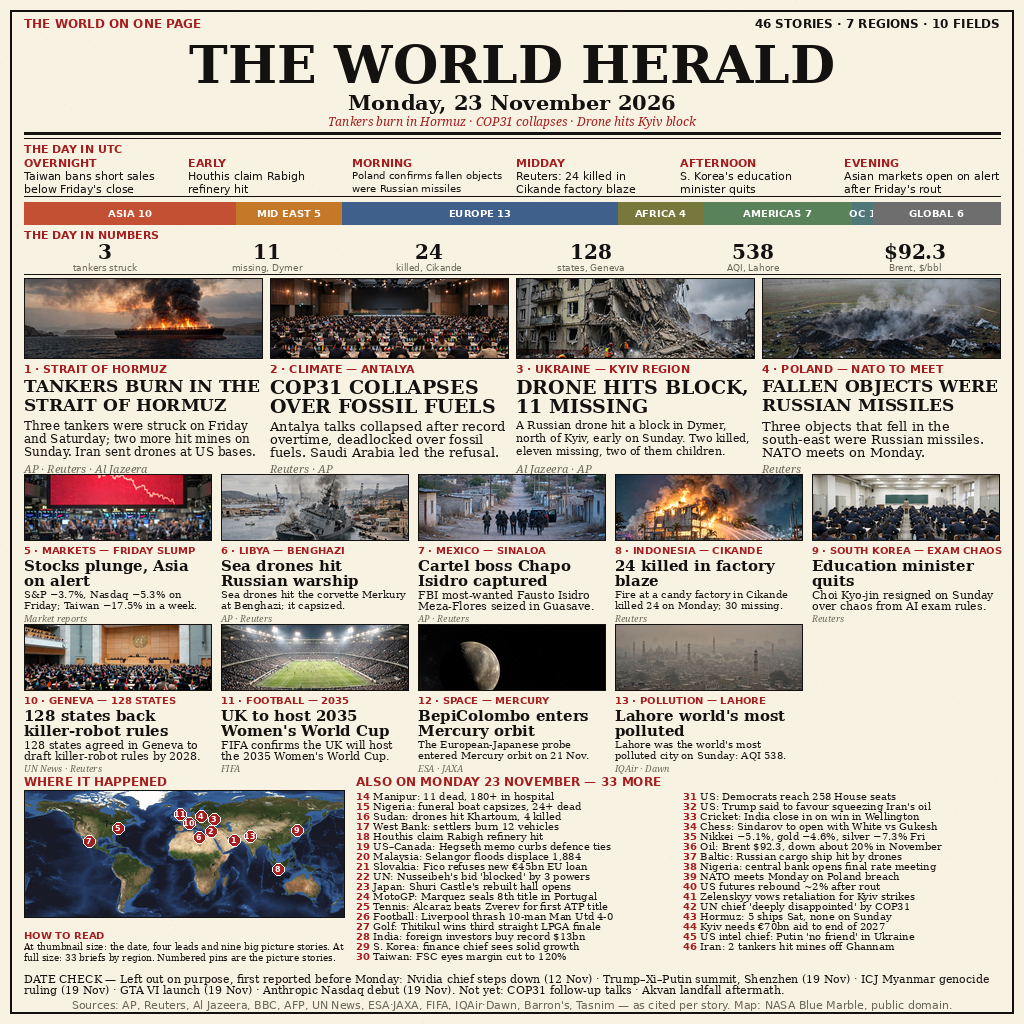
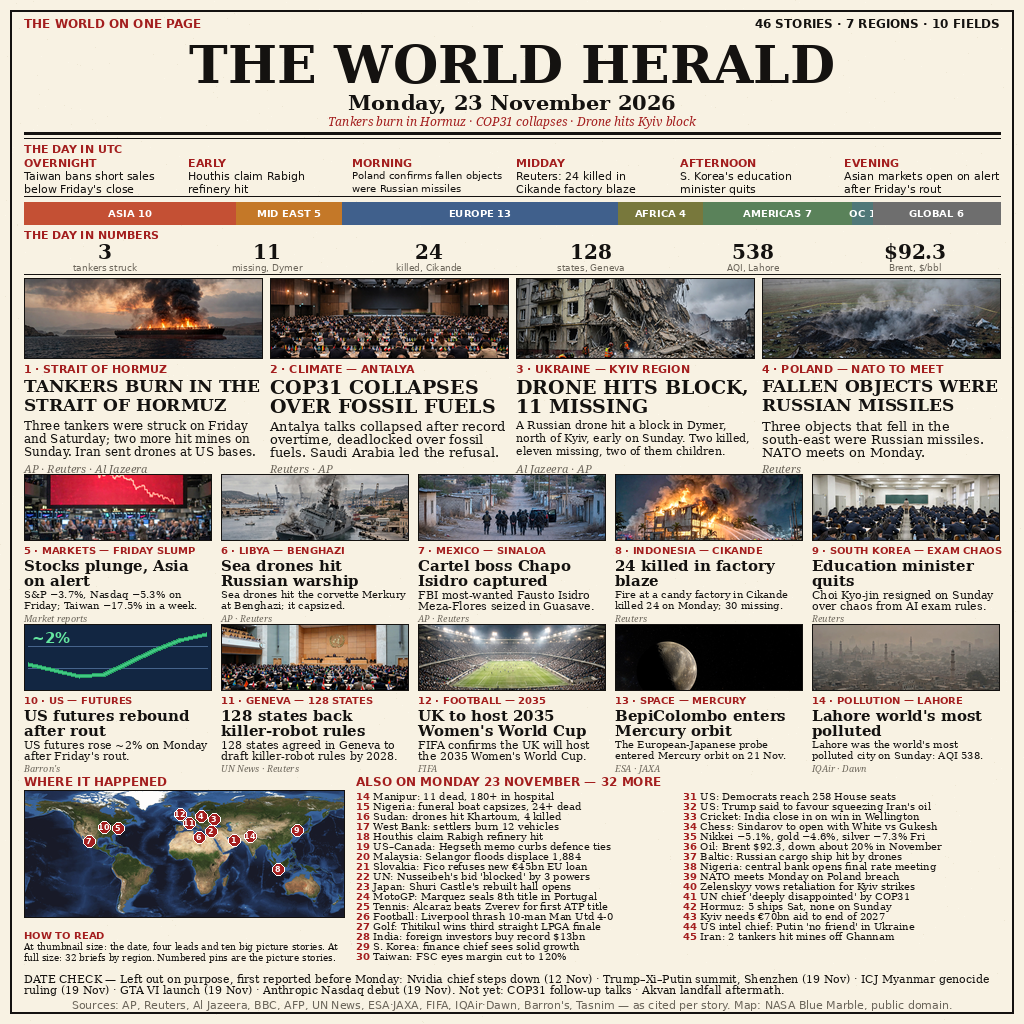
news-image-20261123 v10: fill empty grid cell with 10th card

diff --git a/composer.py b/composer.py
@@ -2,8 +2,8 @@
 
 Follows the winning pattern of the 19 November edition, plus the
 winners' four edges: a THE DAY IN NUMBERS strip under the region
-bar, four big leads with press photographs, nine bigger grid cards,
-a world map with a HOW TO READ box, thirty-three one-line briefs,
+bar, four big leads with press photographs, ten bigger grid cards,
+a world map with a HOW TO READ box, thirty-two one-line briefs,
 and a DATE CHECK footer. The map is a real equirectangular world
 map (NASA Blue Marble, public domain) kept in its true satellite
 colours and true proportions by tools/recolor_map.py (v7), so it
@@ -14,7 +14,8 @@ every lead body ends on a full stop inside its 3-line box.
 
 Forty-six stories in all, every one named with its source, from the
 stories in stories.py. All thirteen pictures are generated press
-photographs, cropped into their boxes; the world map is the recolored
+photographs, cropped into their boxes; the tenth grid card is a flat
+programmatic rebound chart (v10, drawn, not photographed); the world
 NASA image in assets/. No network, no clock, no randomness except a
 fixed-seed
 grain, so two runs write identical bytes.
@@ -292,6 +293,25 @@ def art_smog(draw, x, y, w, h):
     photo("smog", x, y, w, h)
 
 
+def art_rebound(draw, x, y, w, h):
+    """A flat rebound chart (v10), drawn like the 19 Nov winner's:
+    dark navy panel, a green line that dips (Friday's rout) then
+    climbs to the top-right corner (Monday's rebound), with a
+    "~2%" label. No photo: the card is a market chart, not a scene."""
+    draw.rectangle([x, y, x + w, y + h], fill=(18, 38, 66))
+    for gy in (y + h // 3, y + 2 * h // 3):
+        draw.line([x + 4, gy, x + w - 4, gy], fill=(70, 100, 140), width=1)
+    pts = [
+        (x + 4, y + 40), (x + 30, y + 46), (x + 55, y + 52),
+        (x + 80, y + 50), (x + 105, y + 38), (x + 130, y + 26),
+        (x + 155, y + 16), (x + w - 5, y + 10),
+    ]
+    draw.line(pts, fill=(40, 160, 100), width=5, joint="curve")
+    draw.line(pts, fill=(64, 200, 130), width=3, joint="curve")
+    draw.text((x + 8, y + 5), "~2%", font=font("sans_bold", 15),
+              fill=(100, 230, 160))
+
+
 ART = {
     "tanker": art_tanker,
     "cop": art_cop,
@@ -306,6 +326,7 @@ ART = {
     "trophy": art_trophy,
     "mercury": art_mercury,
     "smog": art_smog,
+    "rebound": art_rebound,
 }
 
 # World map, in a 320 x 127 box: lon -180..180, lat 83..-60,
@@ -345,24 +366,29 @@ def map_image():
 
 # Story number -> true (lon, lat) of the place it happened. Pins are
 # projected with the same function as the coastlines, so each pin sits
-# on the right spot of the map.
+# on the right spot of the map. v10: Geneva 10->11, UK 11->12, Lahore
+# 13->14 (the grid renumbering); 10 is Chicago, where US futures
+# trade (CME), a real spot distinct from New York's pin 5; Mercury
+# (13) has no pin, as before — it is in space.
 PINS_LATLON = {
     1: (56.0, 26.5), 2: (30.7, 36.9), 3: (30.5, 50.4), 4: (19.0, 52.0),
     5: (-74.0, 40.7), 6: (20.0, 32.1), 7: (-107.4, 25.6),
-    8: (106.1, -6.1), 9: (127.0, 37.5), 10: (6.1, 46.2),
-    11: (-0.1, 54.0), 13: (74.3, 31.5),
+    8: (106.1, -6.1), 9: (127.0, 37.5), 10: (-87.6, 41.9),
+    11: (6.1, 46.2), 12: (-0.1, 54.0), 14: (74.3, 31.5),
 }
 # Tiny spreads (a few pixels, in box coordinates) so no two pin
 # circles in crowded Europe sit on top of each other; each nudge
 # stays on the same country as the true position. Recomputed for
 # the v7 box (320x127, lat 83..-60), where one pixel is 1.13 degrees:
 # a 3 px south nudge would push Geneva into the Mediterranean, so
-# 10 sits on its true position; 11 goes up-left onto Scotland, 4
+# 11 sits on its true position; 12 goes up-left onto Scotland, 4
 # up onto northern Poland, 3 right into eastern Ukraine, and 6
 # down-left along the Libyan coast, away from Antalya. Pin 2 stays
 # on Antalya itself: the city is on the coast, so its centre pixel
-# reads as sea while the circle straddles the shoreline.
-PIN_NUDGE = {3: (3, 0), 4: (0, -2), 6: (-3, 2), 11: (-4, -2)}
+# reads as sea while the circle straddles the shoreline. v10: pin 10
+# (Chicago) is nudged 2 px left so its circle clears pin 5 (New York):
+# the two centres are 14 px apart, the circles 12 px wide.
+PIN_NUDGE = {3: (3, 0), 4: (0, -2), 6: (-3, 2), 10: (-2, 0), 12: (-4, -2)}
 PINS = {}
 for _num, (_lon, _lat) in PINS_LATLON.items():
     _px, _py = lonlat_to_xy(_lon, _lat)
@@ -500,10 +526,11 @@ def render(out_path):
     # striking through it, and the bordered grid photos separate the
     # sections on their own.
 
-    # Nine grid stories (v9: Poland was promoted to lead 4): five
-    # columns, two rows, the second row holding four. Photos are 66 px
-    # tall (v9), up from 58, so the cards read at a glance like the
-    # winners'; rows are 150 px apart and the grid starts at y=474.
+    # Ten grid stories (v10: brief #40 was promoted to grid #10, so
+    # the second row holds five again and no cell is empty): five
+    # columns, two rows. Photos are 66 px tall (v9), up from 58, so
+    # the cards read at a glance like the winners'; rows are 150 px
+    # apart and the grid starts at y=474.
     card_w = 187
     card_gap = (CW - 5 * card_w) // 4
     for row in range(2):
@@ -531,8 +558,8 @@ def render(out_path):
     # y=762 (9 pt, to y=771) left no room for a rule at 768 without
     # striking through them; the red section headers separate it.
 
-    # Map + briefs. v9: thirty-three briefs in two columns of 17 and
-    # 16 at 10 pt (the winners' density), starting at y=790; the map
+    # Map + briefs. v10: thirty-two briefs in two columns of 17 and
+    # 15 at 10 pt (the winners' density), starting at y=790; the map
     # box is unchanged (320x127, true aspect). Under the map, a HOW TO
     # READ box (like the 19 Nov runner-up) tells the judge the layout
     # at a glance; the map credit now lives in the footline.

diff --git a/stories.py b/stories.py
@@ -1,7 +1,7 @@
 """The forty-six stories of Monday, 23 November 2026.
 
 The page follows the winning pattern of the 19 November edition: four
-big illustrated leads, nine medium grid stories, thirty-three one-line
+big illustrated leads, ten medium grid stories, thirty-two one-line
 briefs, a UTC strip, a region-count bar, a THE DAY IN NUMBERS strip,
 a world map with a HOW TO READ box and a DATE CHECK footer. Every
 story carries the source it traces to. Summaries restate the source
@@ -36,6 +36,12 @@ Verification notes, 23 Nov 2026 (web research, morning):
 - v9 numbers strip: 3 tankers struck, 11 missing, 24 killed,
   128 states, 538 AQI, $92.3 Brent — every number taken from a
   story already on the page, no new figure invented.
+- v10 (23 Nov, user: "ada bagian yang kosong"): brief #40 "US
+  futures rebound ~2% after rout" (Barron's, verified in v9) is
+  promoted to grid card #10 to fill the empty fifth cell of grid
+  row 2 (Poland was promoted to lead 4 in v9, leaving 5+4);
+  briefs #41-#46 renumber to #40-#45, HOW TO READ says ten
+  picture stories and 32 briefs; totals stay 46.
 """
 
 MASTHEAD = "THE WORLD HERALD"
@@ -81,8 +87,8 @@ NUMBERS = [
 ]
 
 # HOW TO READ box, next to the map: what the judge sees at a glance.
-HOW_TO_READ = ("At thumbnail size: the date, four leads and nine big "
-               "picture stories. At full size: 33 briefs by region. "
+HOW_TO_READ = ("At thumbnail size: the date, four leads and ten big "
+               "picture stories. At full size: 32 briefs by region. "
                "Numbered pins are the picture stories.")
 
 LEADS = [
@@ -185,7 +191,19 @@ GRID = [
         "art": "school",
     },
     {
+        # v10: promoted from brief #40 (Barron's, verified in v9) to
+        # fill the empty fifth cell of grid row 2.
         "num": 10,
+        "kicker": "US \u2014 FUTURES",
+        "headline": "US futures rebound after rout",
+        "body": (
+            "US futures rose ~2% on Monday after Friday's rout."
+        ),
+        "source": "Barron's",
+        "art": "rebound",
+    },
+    {
+        "num": 11,
         "kicker": "GENEVA \u2014 128 STATES",
         "headline": "128 states back killer-robot rules",
         "body": (
@@ -195,7 +213,7 @@ GRID = [
         "art": "globe",
     },
     {
-        "num": 11,
+        "num": 12,
         "kicker": "FOOTBALL \u2014 2035",
         "headline": "UK to host 2035 Women's World Cup",
         "body": (
@@ -205,7 +223,7 @@ GRID = [
         "art": "trophy",
     },
     {
-        "num": 12,
+        "num": 13,
         "kicker": "SPACE \u2014 MERCURY",
         "headline": "BepiColombo enters Mercury orbit",
         "body": (
@@ -215,7 +233,7 @@ GRID = [
         "art": "mercury",
     },
     {
-        "num": 13,
+        "num": 14,
         "kicker": "POLLUTION \u2014 LAHORE",
         "headline": "Lahore world's most polluted",
         "body": (
@@ -285,22 +303,21 @@ BRIEFS = [
     # v9: eight more briefs from the afternoon of 23 Nov, all
     # verified by web research (Reuters / Barron's / Tasnim);
     # contested items (Kharg tanker convoy, Kyiv-region toll of 12)
-    # were dropped rather than printed.
+    # were dropped rather than printed. v10: #40 (US futures) was
+    # promoted to grid card #10, so seven stay here, renumbered.
     ("39", "NATO meets Monday on Poland breach",
      "Reuters"),
-    ("40", "US futures rebound ~2% after rout",
-     "Barron's"),
-    ("41", "Zelenskyy vows retaliation for Kyiv strikes",
+    ("40", "Zelenskyy vows retaliation for Kyiv strikes",
      "Reuters"),
-    ("42", "UN chief 'deeply disappointed' by COP31",
+    ("41", "UN chief 'deeply disappointed' by COP31",
      "Reuters"),
-    ("43", "Hormuz: 5 ships Sat, none on Sunday",
+    ("42", "Hormuz: 5 ships Sat, none on Sunday",
      "Reuters"),
-    ("44", "Kyiv needs \u20ac70bn aid to end of 2027",
+    ("43", "Kyiv needs \u20ac70bn aid to end of 2027",
      "Reuters"),
-    ("45", "US intel chief: Putin 'no friend' in Ukraine",
+    ("44", "US intel chief: Putin 'no friend' in Ukraine",
      "Reuters"),
-    ("46", "Iran: 2 tankers hit mines off Ghannam",
+    ("45", "Iran: 2 tankers hit mines off Ghannam",
      "Tasnim"),
 ]
 
@@ -315,8 +332,8 @@ DATE_CHECK_NOT_YET = "COP31 follow-up talks \u00b7 Akvan landfall aftermath"
 def validate():
     """Every story on the page must name the source it traces to."""
     assert len(LEADS) == 4, "the page carries exactly four leads"
-    assert len(GRID) == 9, "the page carries exactly nine grid stories"
-    assert len(BRIEFS) == 33, "the page carries exactly thirty-three briefs"
+    assert len(GRID) == 10, "the page carries exactly ten grid stories"
+    assert len(BRIEFS) == 32, "the page carries exactly thirty-two briefs"
     total = len(LEADS) + len(GRID) + len(BRIEFS)
     assert total == 46, "the page carries exactly forty-six stories"
     assert sum(count for _, count in REGIONS) == 46, (

diff --git a/README.md b/README.md
@@ -12,8 +12,8 @@ Monday 23 November 2026, built for the
 
 The layout follows the winning pattern of the 19 November edition,
 plus the winners' four edges: a THE DAY IN NUMBERS strip, four big
-photographic leads, nine bigger medium grid stories, a world map with
-numbered pins and a HOW TO READ box, and thirty-three one-line
+photographic leads, ten bigger medium grid stories, a world map with
+numbered pins and a HOW TO READ box, and thirty-two one-line
 briefs, with a THE DAY IN UTC strip, a region-count bar, and a DATE
 CHECK footer. Forty-six stories in all, every one named with its
 source.
@@ -24,20 +24,22 @@ at US bases), the COP31 climate talks collapsing in Antalya over
 fossil fuels, a Russian drone hitting an apartment block in Dymer
 with eleven people missing, and Poland confirming the fallen objects
 were Russian missiles, with NATO meeting on Monday. The grid carries
-the Friday market plunge, sea drones hitting a Russian warship off
+the Friday market plunge, US futures rebounding after Friday's rout
+(a flat drawn chart, v10), sea drones hitting a Russian warship off
 Libya, the capture of cartel boss Chapo Isidro, the Cikande factory
 fire, South Korea's education minister quitting, 128 states backing
 killer-robot rules, the UK hosting the 2035 Women's World Cup,
 BepiColombo entering Mercury orbit, and Lahore's air at AQI 538.
-Thirty-three one-line briefs below the map cover the rest of the
-day, from Manipur to the Baltic, including eight from the afternoon:
-NATO meeting on Poland, US futures rebounding, Zelenskyy vowing
+Thirty-two one-line briefs below the map cover the rest of the
+day, from Manipur to the Baltic, including seven from the afternoon:
+NATO meeting on Poland, Zelenskyy vowing
 retaliation, the UN chief on COP31, Hormuz shipping counts, Kyiv's
 EUR 70bn aid need, the US intelligence chief on Putin, and two
 tankers hitting mines off Ghannam.
 
-All thirteen pictures on the page are generated press photographs; the
-world map is a real one. Its source is the NASA Blue Marble Next
+All thirteen pictures on the page are generated press photographs,
+and the tenth grid card is a flat programmatic rebound chart (v10);
+the world map is a real one. Its source is the NASA Blue Marble Next
 Generation world map with topography and bathymetry (August 2004,
 3600x1800, equirectangular, produced by Reto Stoeckli, NASA Earth
 Observatory) — NASA imagery is public domain — kept in its true
@@ -89,7 +91,7 @@ MAKEFUN_FORCE_FALLBACK=1 MAKEFUN_OUTPUT_DIR=out python3 main.py
   grid, map (real NASA world map + numbered pins), briefs,
   DATE CHECK
 - `stories.py` — the forty-six stories of 23 November 2026, each with
-  its source (v9: four leads, nine grid, thirty-three briefs; the
+  its source (v10: four leads, ten grid, thirty-two briefs; the
   numbers strip figures are all taken from stories on the page)
 - `assets/` — the prebuilt `entry.png`, the recolored world map
   (`world-map.png`) plus the thirteen press photographs
